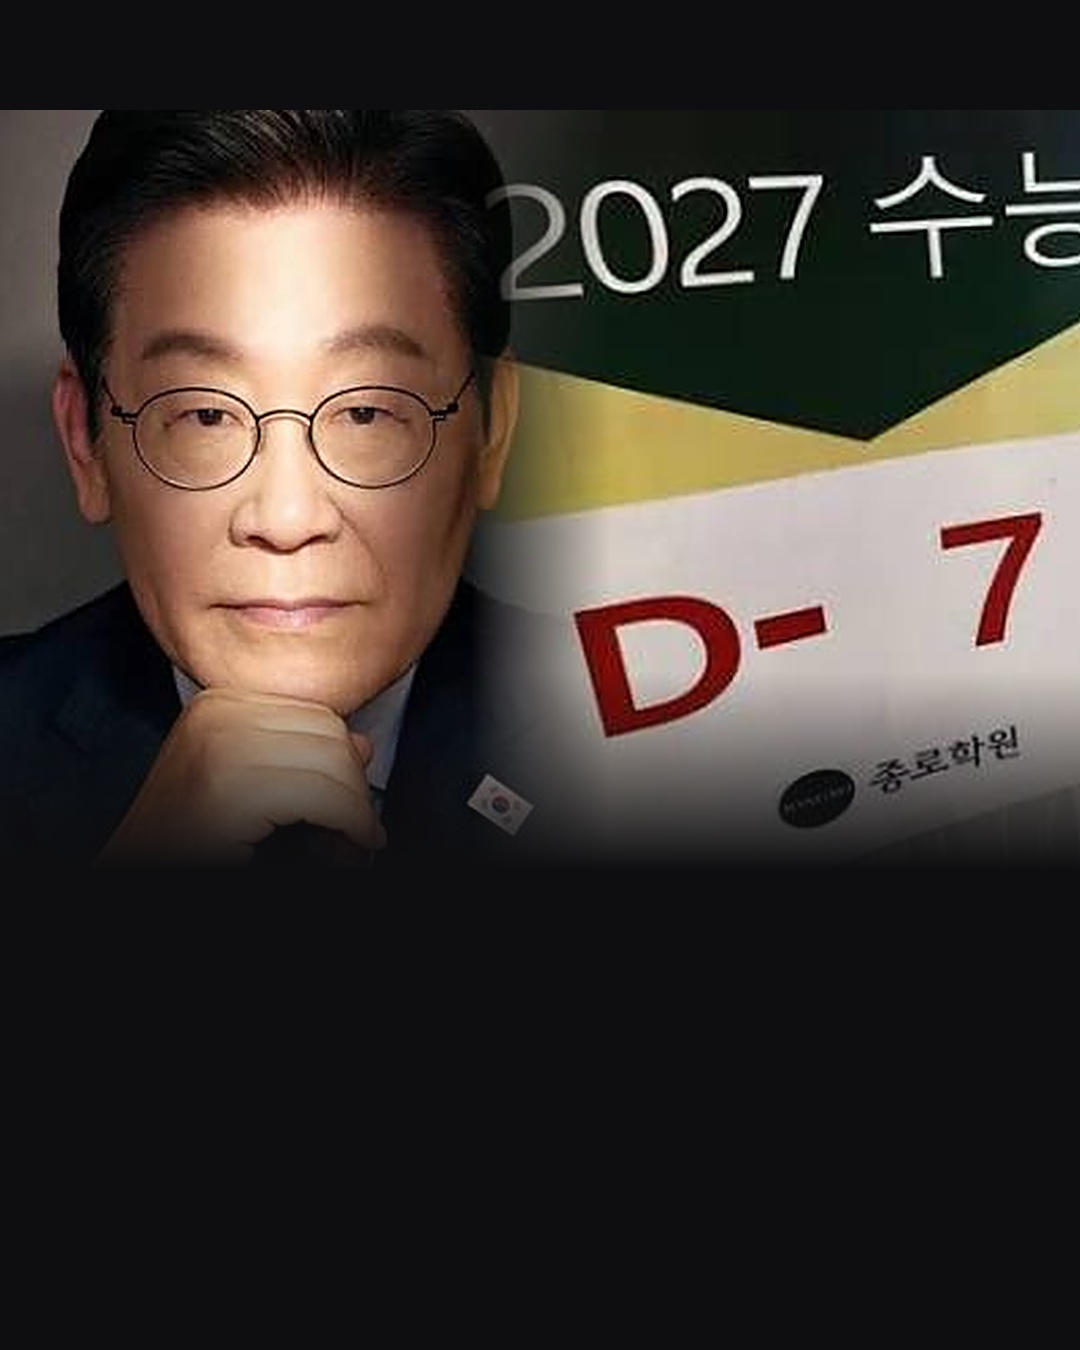
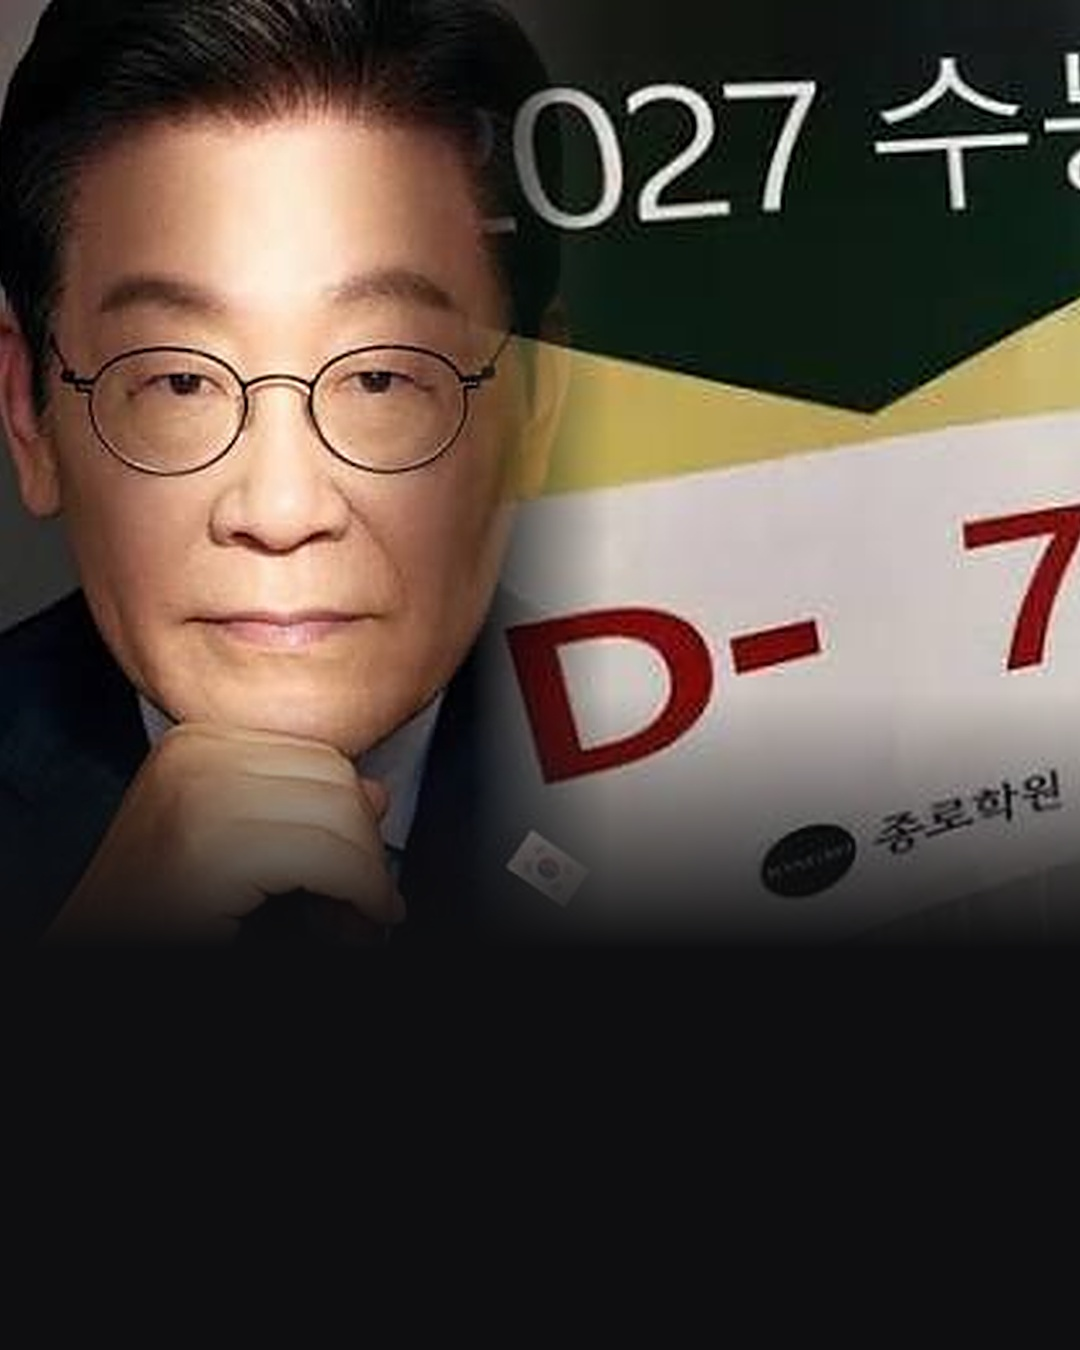
ljm 표지: 후킹 문구 '대통령 X에 떴다 / 커닝 신고하면 1억 이상'
Claude-Session: https://claude.ai/code/session_01FGsw5QnWxFUsnopcB1Czie

diff --git a/media/20261117-ljm/build_card.py b/media/20261117-ljm/build_card.py
@@ -34,14 +34,14 @@ logo(im); im.save(Path(__file__).parent / "cand" / "c02.jpg", quality=93); print
 # D-7 사진 위쪽 '11월 12일(목)' 글씨는 이번 수능 날짜(19일)와 달라 잘라냄.
 from PIL import ImageFilter, ImageOps
 A = Image.open(Path(__file__).parent / "cand" / "user_photo.jpg").convert("RGB").crop((110, 0, 450, 365))
-B = Image.open(Path(__file__).parent / "cand" / "user_d7.jpg").convert("RGB").crop((0, 88, 330, 369))
-TH = 760
+B = Image.open(Path(__file__).parent / "cand" / "user_d7.jpg").convert("RGB").crop((0, 88, 300, 369))
+TH = 950
 A = ImageOps.fit(A, (620, TH), Image.LANCZOS, centering=(.5, 0)).filter(ImageFilter.UnsharpMask(2, 60, 2))
-B = ImageOps.fit(B, (620, TH), Image.LANCZOS, centering=(.35, .5)).filter(ImageFilter.UnsharpMask(2, 60, 2))
+B = ImageOps.fit(B, (620, TH), Image.LANCZOS, centering=(.55, .5)).filter(ImageFilter.UnsharpMask(2, 60, 2))
 L = Image.new("RGB", (W, TH)); L.paste(A, (0, 0)); Rr = Image.new("RGB", (W, TH)); Rr.paste(B, (W - 620, 0))
 row = Image.new("L", (W, 1)); row.putdata([0 if x < 470 else 255 if x > 610 else int(255 * (x - 470) / 140) for x in range(W)])
 top = Image.composite(Rr, L, row.resize((W, TH)))
-OY = 110; bg = Image.new("RGB", (W, H), (14, 14, 16)); bg.paste(top, (0, OY))
-g = Image.new("L", (W, 200)); g.putdata([int(255 * y / 199) for y in range(200) for _ in range(W)])
-bg.paste(Image.new("RGB", (W, 200), (14, 14, 16)), (0, OY + TH - 200), g)
+OY = 0; bg = Image.new("RGB", (W, H), (14, 14, 16)); bg.paste(top, (0, OY))
+g = Image.new("L", (W, 260)); g.putdata([int(255 * y / 259) for y in range(260) for _ in range(W)])
+bg.paste(Image.new("RGB", (W, 260), (14, 14, 16)), (0, OY + TH - 260), g)
 bg.save(Path(__file__).parent / "cand" / "cover_bg.jpg", quality=95)
